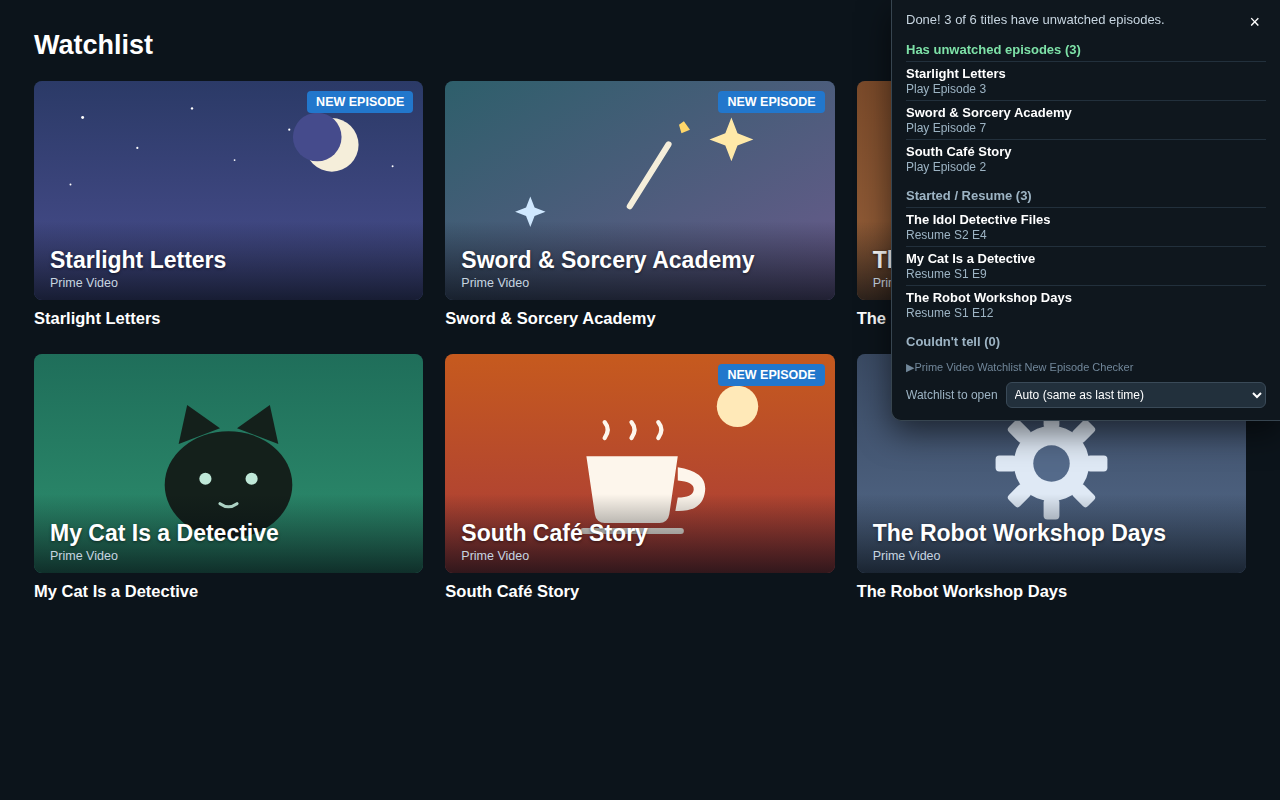
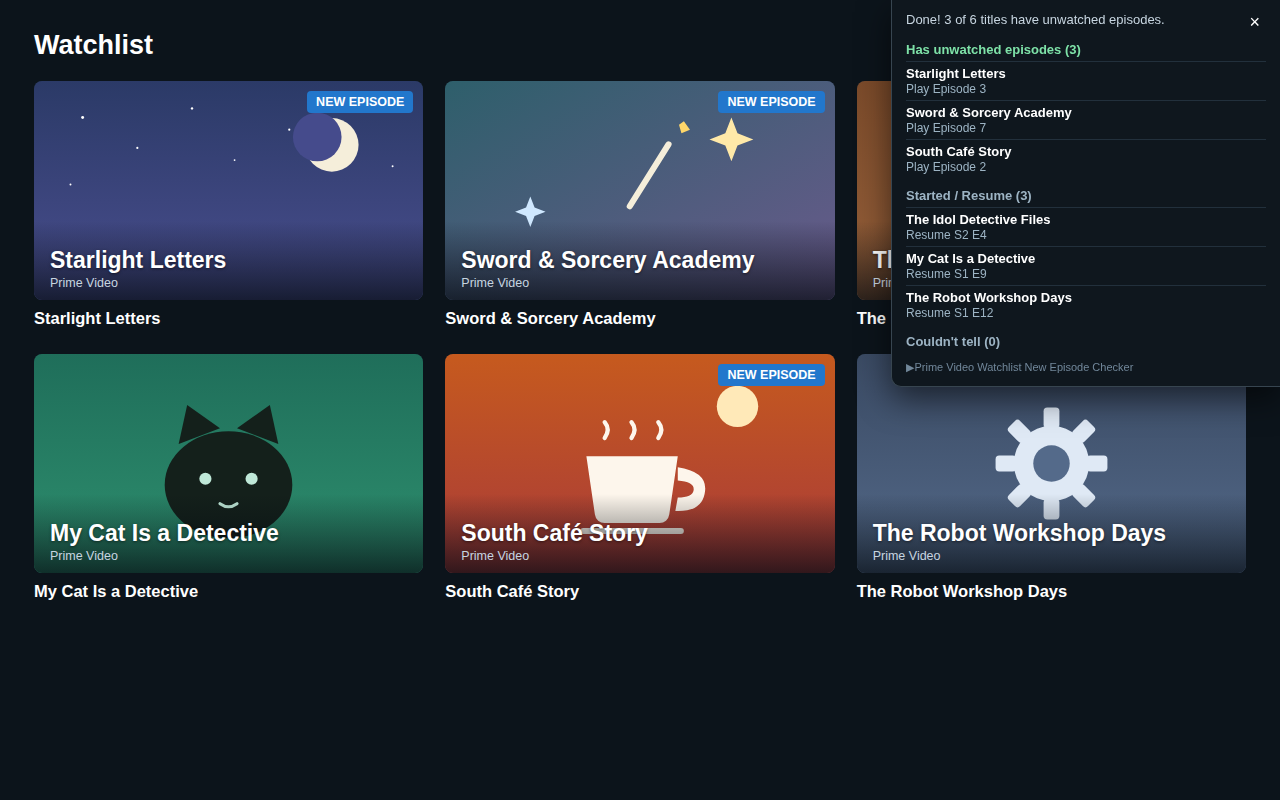
v1.2.10: remove the panel surface select added in v1.2.9 (popup-only, back to v1.2.8 behavior); retake screenshots JA/EN

Changed region(s): [[0.6875, 0.4688, 1.0, 0.5625]]

diff --git a/content.js b/content.js
@@ -367,7 +367,6 @@
     let panel = document.getElementById(PANEL_ID);
     if (panel) {
       panel.style.display = panelHidden ? 'none' : '';
-      syncSurfaceSelect(panel);
       return panel;
     }
     panel = document.createElement('div');
@@ -385,39 +384,15 @@
       <div class="pv-section pv-resume"><h4>${msg('headingResume', ['0'])}</h4><ul></ul></div>
       <div class="pv-section pv-unknown"><h4>${msg('headingUnknown', ['0'])}</h4><ul></ul></div>
       <div class="pv-brand">▶${msg('appName')}</div>
-      <div class="pv-surface">
-        <label>${msg('surfaceLabel')}</label>
-        <select class="pv-surface-select">
-          <option value="auto">${msg('surfaceAuto')}</option>
-          <option value="cojp">amazon.co.jp</option>
-          <option value="com">amazon.com</option>
-          <option value="pv">primevideo.com</option>
-        </select>
-      </div>
     `;
     document.body.appendChild(panel);
     panel.querySelector('.pv-close').addEventListener('click', () => closePanel());
     panel.querySelector('.pv-cancel').addEventListener('click', () => { cancelRequested = true; });
     // 診断ログボタンは当面非表示（ユーザー要望）。保存機能自体は残してあり、必要になったら表示に戻す
     panel.querySelector('.pv-log').addEventListener('click', downloadDebugLog);
-    // 開くサイトの選択（v1.2.9でパネルにも追加。ポップアップと同じ pvSurfacePref を共有する）
-    const surfaceSel = panel.querySelector('.pv-surface-select');
-    surfaceSel.addEventListener('change', () => {
-      chrome.storage.local.set({ pvSurfacePref: surfaceSel.value }).catch(() => {});
-    });
-    syncSurfaceSelect(panel);
     setPanelRunning(false);
     panel.style.display = panelHidden ? 'none' : '';
     return panel;
-  }
-
-  // パネルの選択ボックスに保存済みの設定を反映する（ポップアップ側で変えた場合も追随させる）
-  function syncSurfaceSelect(panel) {
-    const sel = panel.querySelector('.pv-surface-select');
-    if (!sel) return;
-    chrome.storage.local.get('pvSurfacePref').then((d) => {
-      if (d.pvSurfacePref) sel.value = d.pvSurfacePref;
-    }).catch(() => {});
   }
 
   // パネルを閉じる（隠す）。巡回中に閉じても巡回は裏で続き、結果はポップアップで見られる。

diff --git a/content.css b/content.css
@@ -46,6 +46,3 @@
 #pv-checker-panel li a:hover { text-decoration: underline; }
 #pv-checker-panel .pv-cta { display: block; color: #9db4c4; font-size: 12px; margin-top: 1px; }
 #pv-checker-panel .pv-brand { font-size: 11px; color: #71879a; margin-top: 12px; white-space: nowrap; }
-#pv-checker-panel .pv-surface { display: flex; align-items: center; gap: 8px; margin-top: 8px; font-size: 12px; color: #9db4c4; }
-#pv-checker-panel .pv-surface label { white-space: nowrap; }
-#pv-checker-panel .pv-surface-select { flex: 1; min-width: 0; background: #22303c; color: #fff; border: 1px solid #3a4a58; border-radius: 6px; padding: 4px; font-size: 12px; }

diff --git a/CHANGELOG.md b/CHANGELOG.md
@@ -2,7 +2,8 @@
 
 「Prime Video ウォッチリスト新着チェッカー」の変更履歴です。新しい順に並んでいます。
 
-- **v1.2.9**（2026-11-05、検証用・未公開）: 「開くウォッチリスト」の選択ボックスを、ポップアップに加えて結果パネル（ページ内表示）の最下部にも追加。ポップアップと同じ設定（pvSurfacePref）を共有し、どちらで変更しても次回のチェック開始時に反映される
+- **v1.2.10**（2026-11-05、検証用・未公開）: v1.2.9 で結果パネルに追加した「開くウォッチリスト」の選択ボックスを取り除き、ポップアップのみに戻した（ユーザー判断による取りやめ）。機能は v1.2.8 と同一
+- **v1.2.9**（2026-11-05、検証用・未公開／v1.2.10 で取りやめ）: 「開くウォッチリスト」の選択ボックスを、ポップアップに加えて結果パネル（ページ内表示）の最下部にも追加。ポップアップと同じ設定（pvSurfacePref）を共有し、どちらで変更しても次回のチェック開始時に反映される
 
 - **v1.2.8**（2026-11-05、検証用・未公開）: v1.2.7 の不具合修正。明示設定（開くウォッチリスト）が新規タブを開く場合にしか効いておらず、別面のウォッチリストタブが開いていると設定を無視してそのタブを再利用していた（例: primevideo.com でチェックした後に amazon.co.jp を選んでも primevideo.com が開く）。明示設定をタブの再利用・Prime Video タブの誘導にも優先させ、選んだ面のタブだけを使うようにした。あわせて選択ボックスをポップアップ最下部（ブランド表記より下）へ移動
 

diff --git a/README.md b/README.md
@@ -29,7 +29,7 @@ Distill Web Monitor のようなページ監視ツールはこのホバー表示
 1. 対応サイト（amazon.co.jp / amazon.com / primevideo.com のいずれか）にログインしておく
 2. 拡張アイコンをクリックしてポップアップを開き、「ウォッチリストをチェック」を押す
    - ウォッチリストのタブが開いて（または前面化して）、自動で巡回が始まります
-   - 開くサイトはポップアップ最下部と結果パネルの「開くウォッチリスト」で変更できます（既定は「自動」＝前回チェックしたサイト。初回はブラウザの表示言語から推測します）
+   - 開くサイトはポップアップ最下部の「開くウォッチリスト」で変更できます（既定は「自動」＝前回チェックしたサイト。初回はブラウザの表示言語から推測します）
 3. 巡回中はウォッチリストページの右上にパネルが出て、進捗と結果がリアルタイムで増えていきます
    - 巡回は上から下へスクロールしながら1作品ずつホバーを再現します。作品数によりますが、1作品あたり約0.7〜2.5秒かかります（ホバーに反応がない作品は約1.2秒で見切ります）
    - 終了するとページは自動で最上部に戻ります

diff --git a/STORE_LISTING_EN.md b/STORE_LISTING_EN.md
@@ -32,7 +32,7 @@ Each title is classified by the play-button label shown when you hover over it:
 
 ■ How to use
 1. Sign in to a supported site (amazon.co.jp, amazon.com, or primevideo.com) and press "Check my watchlist" from the extension icon
-2. The watchlist tab opens and the scan starts automatically (about 1 second per title). You can choose which site to open with the "Watchlist to open" selector at the bottom of the popup or the results panel (default: Auto = the site you checked last time)
+2. The watchlist tab opens and the scan starts automatically (about 1 second per title). You can choose which site to open with the "Watchlist to open" selector at the bottom of the popup (default: Auto = the site you checked last time)
 3. Results appear in a panel on the page and in the extension popup, grouped into "Has unwatched episodes", "Started / Resume", and "Couldn't tell"
 4. Click a title to go straight to its page
 
